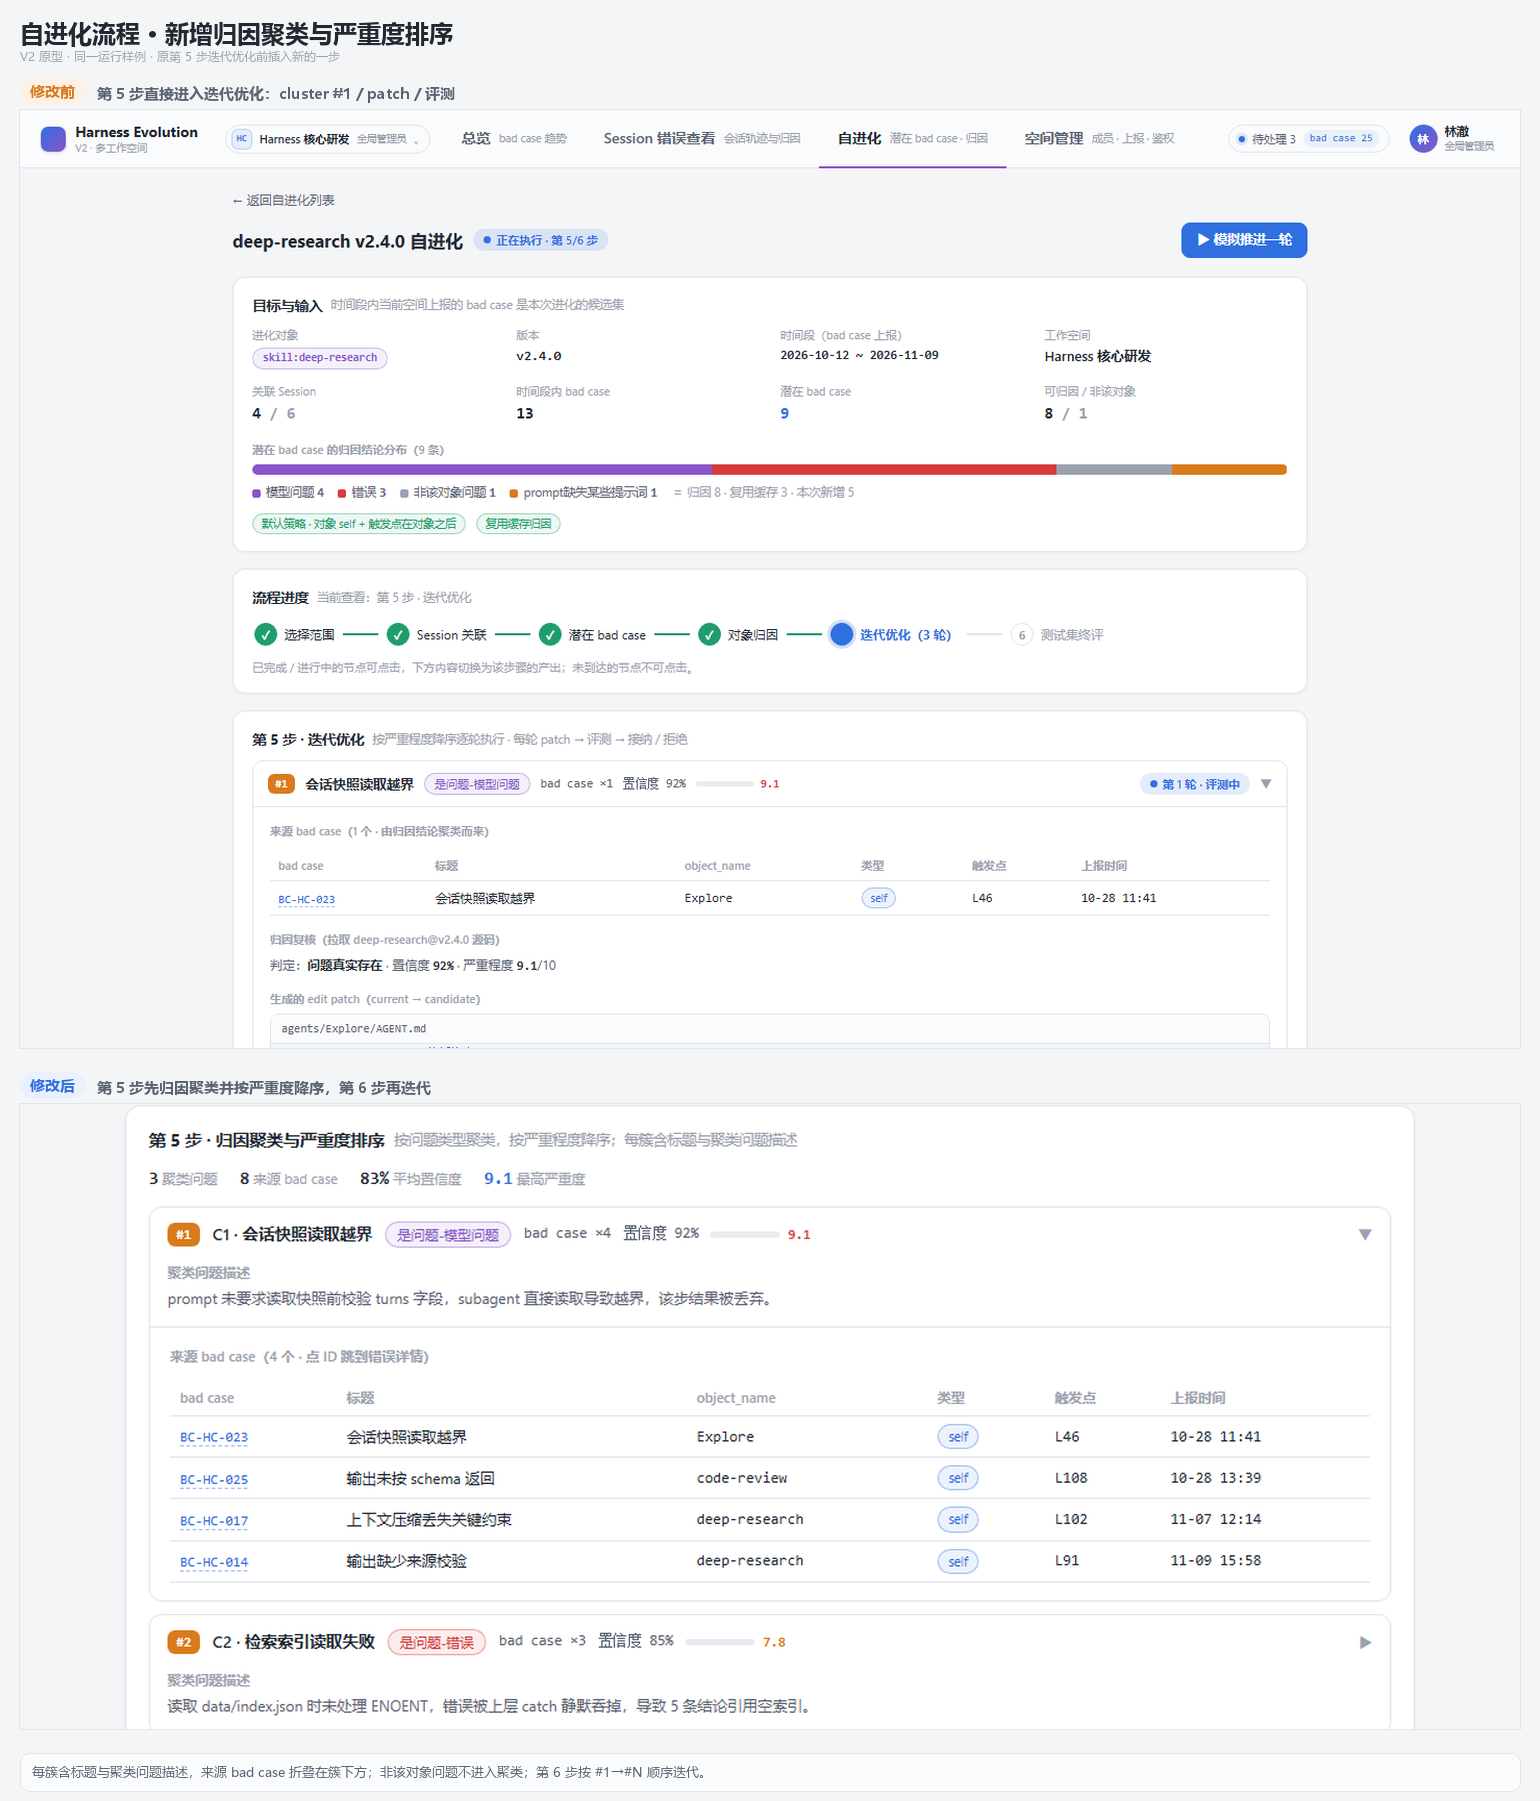
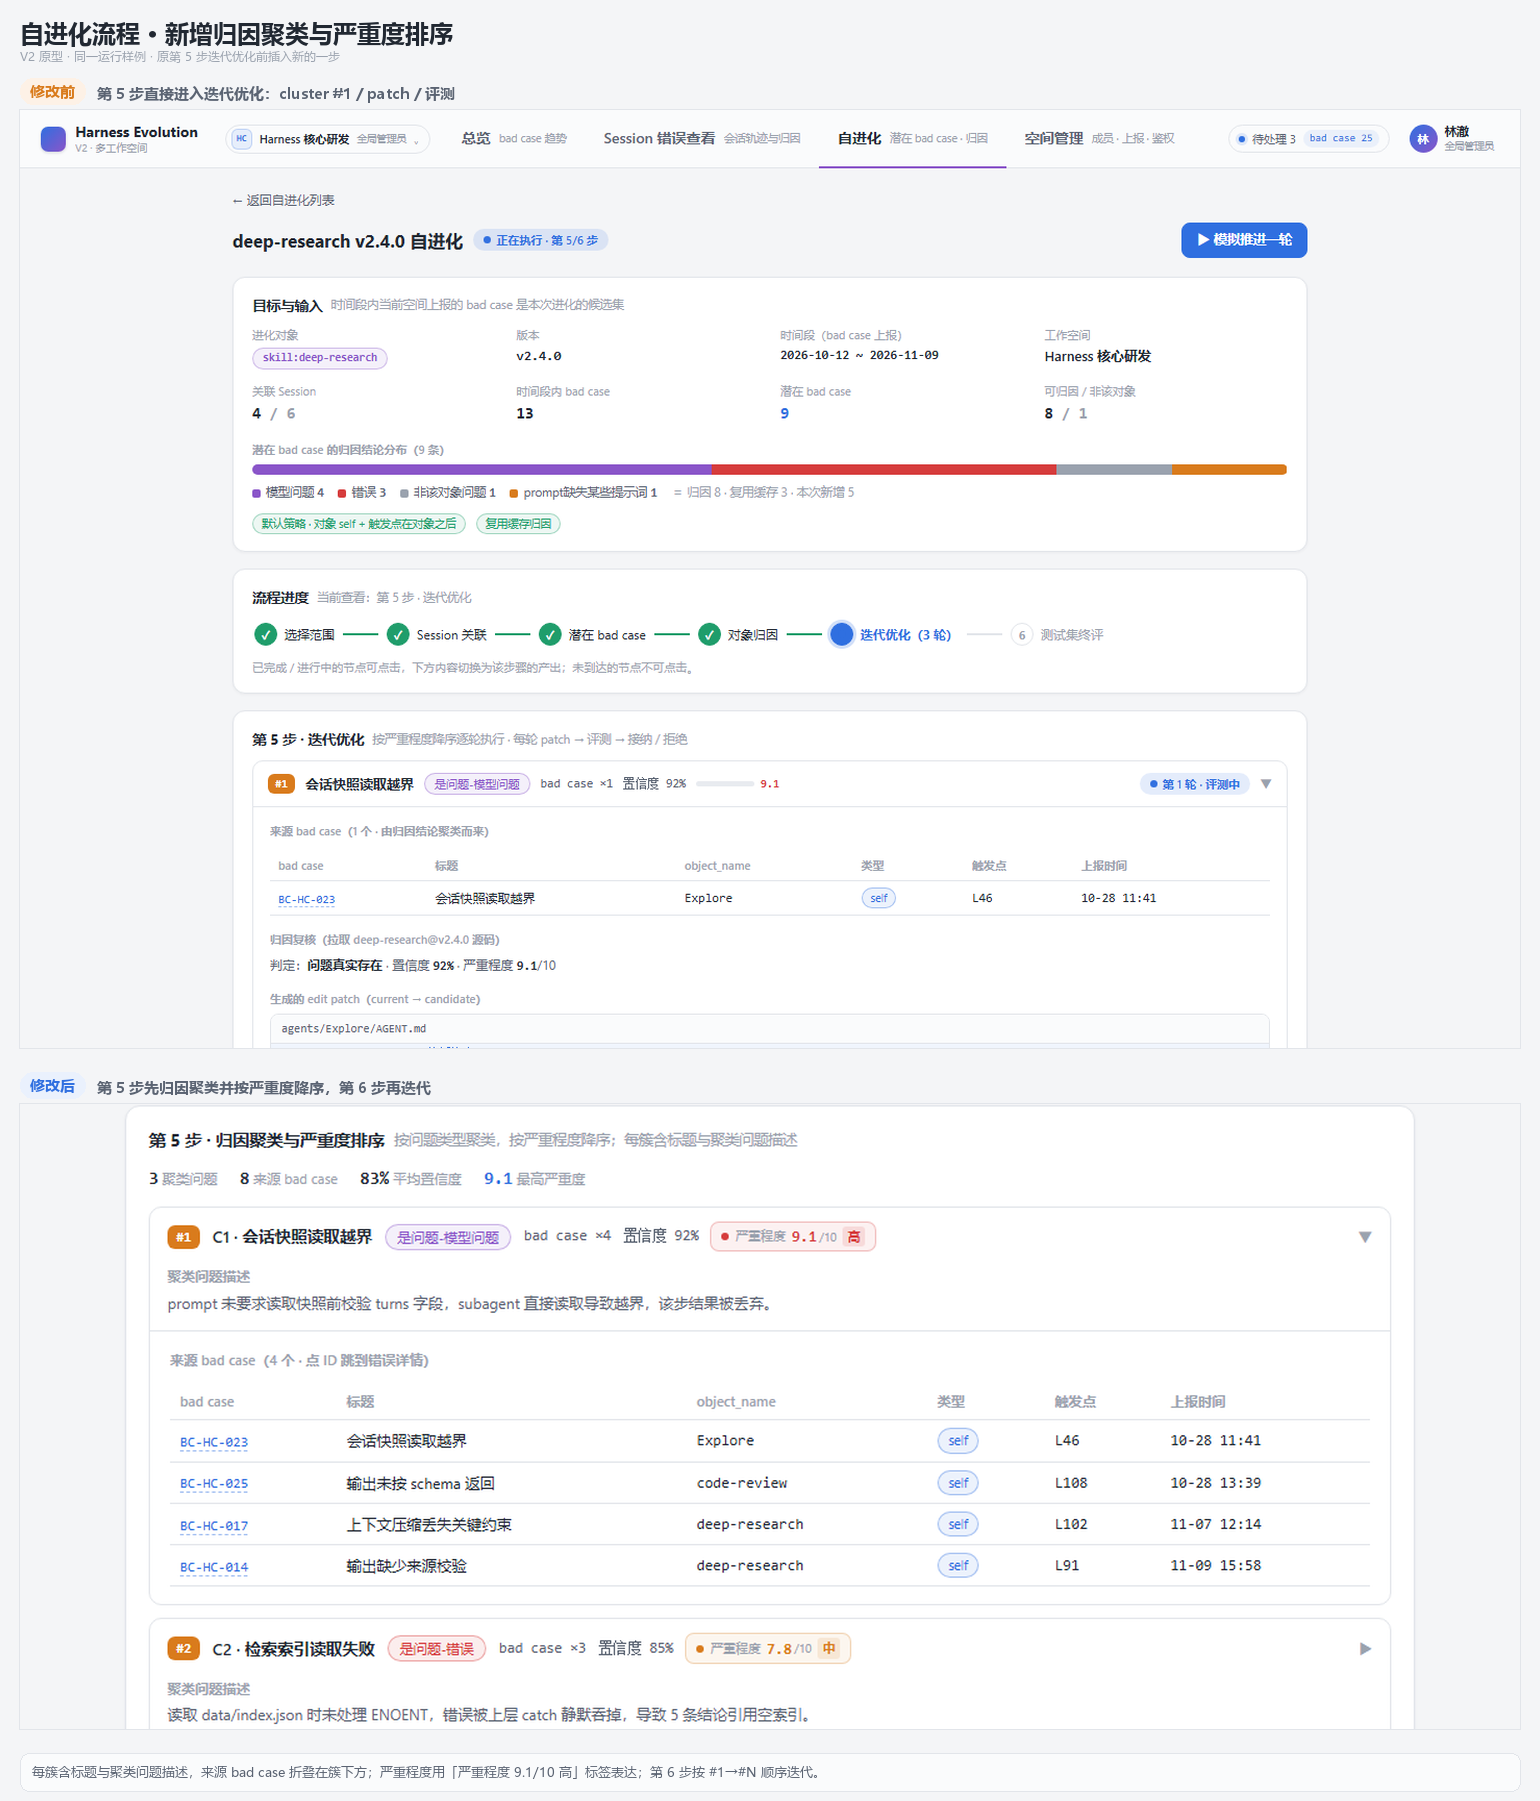
feat(prototype): make cluster severity self-explanatory

Changed region(s): [[0.0935, 0.6841, 0.8727, 0.995]]

diff --git a/plans/ui-prototype-v2/harness-evolution.html b/plans/ui-prototype-v2/harness-evolution.html
@@ -534,6 +534,12 @@
 .evo-app .cluster-head .ctitle { font-weight: 600; font-size: 13px; }
 .evo-app .cluster-head .meta { font-size: 11.5px; color: var(--text-dim); font-family: var(--mono); white-space: nowrap; }
 .evo-app .cluster-head .tail { margin-left: auto; display: flex; align-items: center; gap: 10px; }
+.evo-app .sev-pill { display: inline-flex; align-items: center; gap: 5px; padding: 3px 8px; border: 1px solid; border-radius: 7px; white-space: nowrap; }
+.evo-app .sev-pill-dot { width: 6px; height: 6px; border-radius: 50%; background: currentColor; }
+.evo-app .sev-pill-name { font-size: 10px; color: var(--text-faint); font-weight: 500; }
+.evo-app .sev-pill b { font-family: var(--mono); font-size: 12px; line-height: 1; }
+.evo-app .sev-pill-total { font-size: 9.5px; color: var(--text-faint); margin-left: -3px; }
+.evo-app .sev-pill-level { font-size: 9.5px; font-weight: 700; padding: 1px 4px; border-radius: 3px; background: color-mix(in srgb, currentColor 12%, transparent); }
 .evo-app .sev { display: flex; align-items: center; gap: 6px; }
 .evo-app .sev .bar { width: 56px; height: 5px; border-radius: 3px; background: #e8ebf0; overflow: hidden; }
 .evo-app .sev .fill { height: 100%; border-radius: 3px; }
@@ -3469,8 +3475,9 @@ function evCaseLink(c, tab) {
   return `<a class="idlink" href="${caseDeepLink(c.id, tab || 'desc')}" target="_blank" rel="noopener">${c.id}</a>`;
 }
 function evSevHTML(sev) {
-  const pct = sev * 10, color = sev >= 8 ? 'var(--red)' : sev >= 6 ? 'var(--orange)' : 'var(--text-faint)';
-  return `<span class="sev"><span class="bar"><span class="fill" style="width:${pct}%;background:${color}"></span></span><span class="mono" style="font-size:11px;color:${color};font-weight:600">${sev.toFixed(1)}</span></span>`;
+  const color = sev >= 8 ? 'var(--red)' : sev >= 6 ? 'var(--orange)' : 'var(--text-faint)';
+  const level = sev >= 8 ? '高' : sev >= 6 ? '中' : '低';
+  return `<span class="sev-pill" style="color:${color};border-color:color-mix(in srgb, ${color} 28%, transparent);background:color-mix(in srgb, ${color} 7%, transparent)" title="严重程度 ${sev.toFixed(1)} / 10（${level}）"><span class="sev-pill-dot"></span><span class="sev-pill-name">严重程度</span><b>${sev.toFixed(1)}</b><span class="sev-pill-total">/10</span><span class="sev-pill-level">${level}</span></span>`;
 }
 function evDelta(x, unit) { const v = (x > 0 ? '+' : '') + x.toFixed(1) + (unit || ''); return x >= 0 ? `<span class="delta-pos">${v}</span>` : `<span class="delta-neg">${v}</span>`; }
 function evCurrentWs() { return (window.V2 && window.V2.wsId) || 'ws-harness'; }
